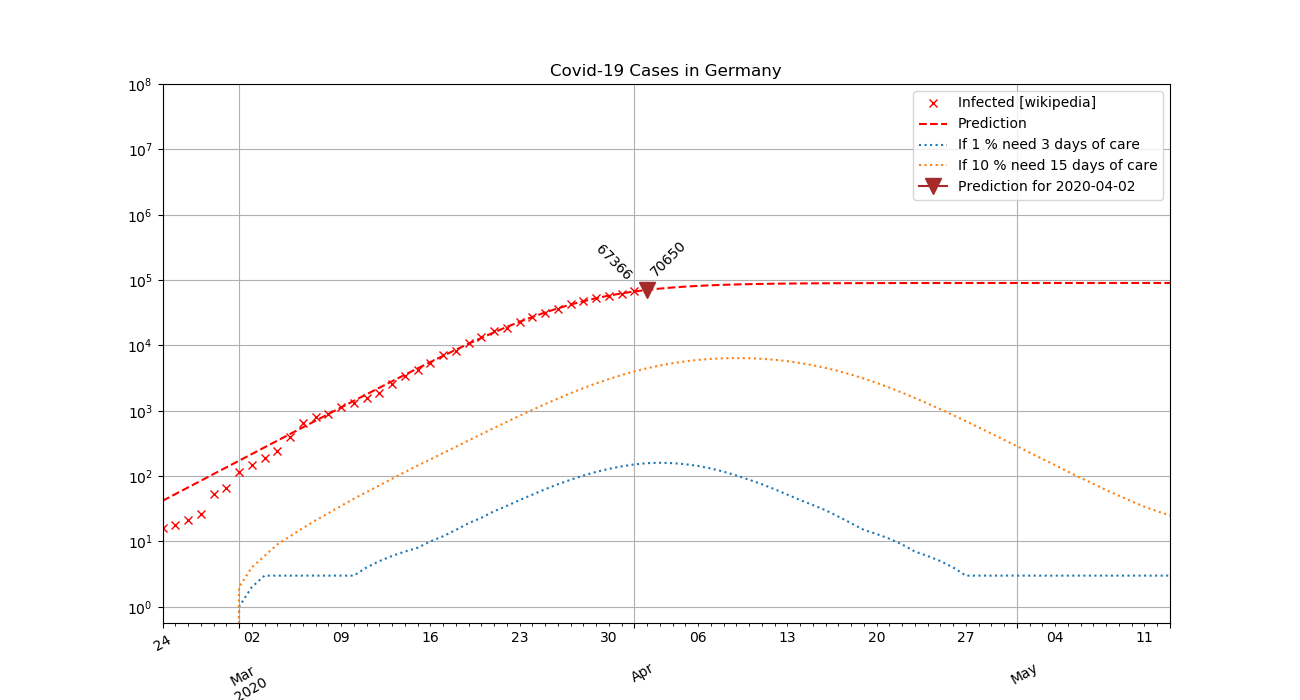
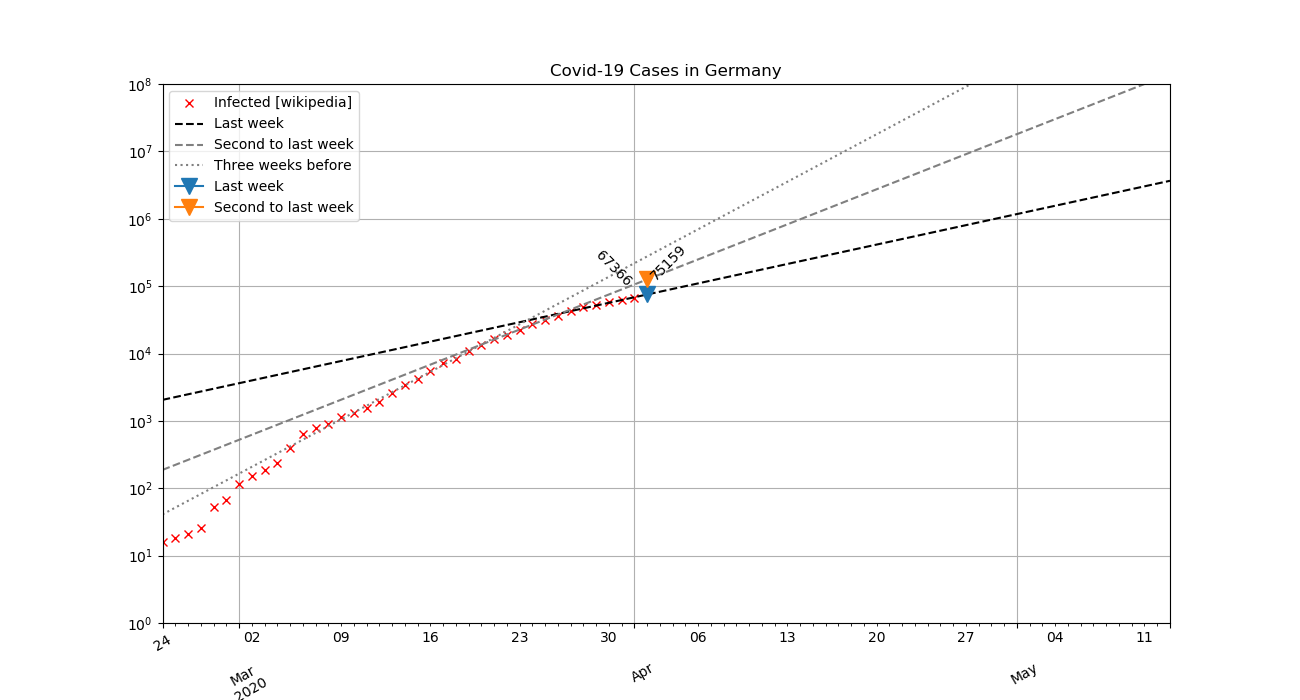
Finished implementation

diff --git a/coro.py b/coro.py
@@ -21,7 +21,7 @@ PREDICTIONS.append({'until': 7,
                     'days':  7,
                     'key': 'Second to last week',
                     'plot': True,
-                    'predict': True,
+                    'predict': False,
                     'style': {'linestyle': '--',
                               'color': 'gray'}})
 PREDICTIONS.append({'until': 14,
@@ -54,7 +54,7 @@ def _get_predictions(data, predict_date='2020-03-20', N=70):
     last_date = data.index[-1]
 
     pred = pd.DataFrame(index=pd.date_range(start=data.index[0], periods=N[1]-N[0], freq='d'))
-    PREDICTION = pd.DataFrame(data=[], columns=['Date', 'Infections', 'Description'])
+    PREDICTION = pd.DataFrame(index=[pd.to_datetime(predict_date)])
     for prediction in PREDICTIONS:
         start_date = last_date - timedelta(days=prediction['until'])
         end_date = start_date - timedelta(days=prediction['days']-1)
@@ -65,9 +65,8 @@ def _get_predictions(data, predict_date='2020-03-20', N=70):
         predicted_infected = _exponential_function(XX, d[0], d[1])
         pred[prediction['key']] = predicted_infected
         if prediction['predict']:
-            PREDICTION.loc[len(PREDICTION)] = [pd.to_datetime(predict_date),
-                                               np.ceil(pred.loc[predict_date, prediction['key']]),
-                                               prediction['key']]
+            PREDICTION.loc[predict_date, prediction['key']] = \
+                np.ceil(pred.loc[predict_date, prediction['key']])
 
     return pred, PREDICTION
 
@@ -84,9 +83,9 @@ def get_plot(predict_date, safepath):
             prediction_key = prediction['key']
             pred[prediction_key].plot(label=prediction_key, **prediction['style'])
 
-    for _, prediction in PREDICTION.iterrows():
-        ax.plot(prediction['Date'], prediction['Infections'], marker='v', markersize=12)
-        ax.annotate('%d' %(prediction['Infections']), (prediction['Date'], prediction['Infections']),
+    if PREDICTION.size > 0:
+        PREDICTION.plot(ax=ax, marker='v', markersize=12)
+        ax.annotate('%d' %(PREDICTION.iloc[0,0]), (PREDICTION.index[0], PREDICTION.iloc[0,0]),
                     textcoords="offset points", rotation=45,
                     xytext=(1, 10))
     ax.annotate('%d' %(data.loc[day_before_prediction, 'Infected']), (pd.to_datetime(day_before_prediction), 
